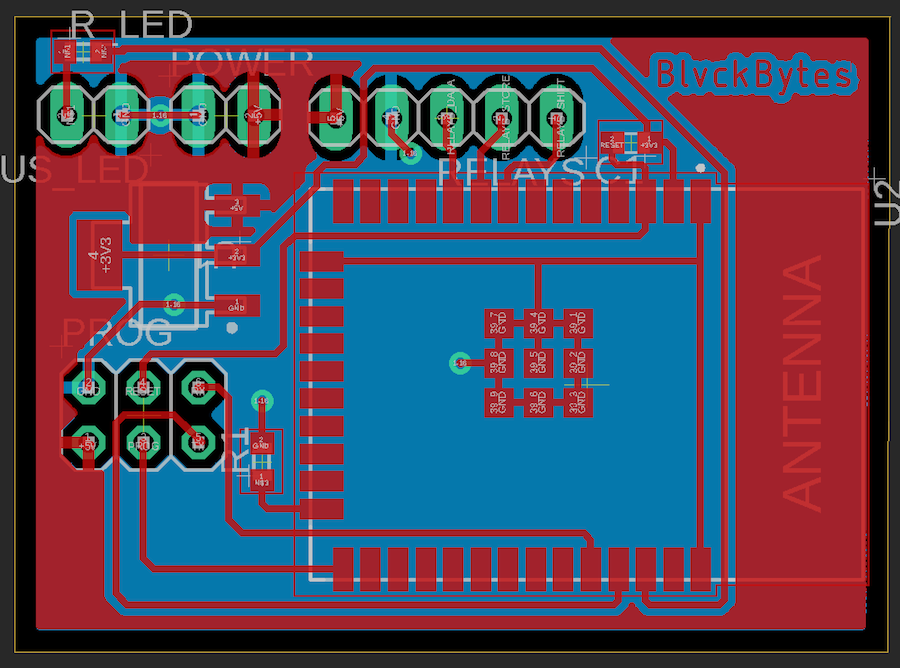
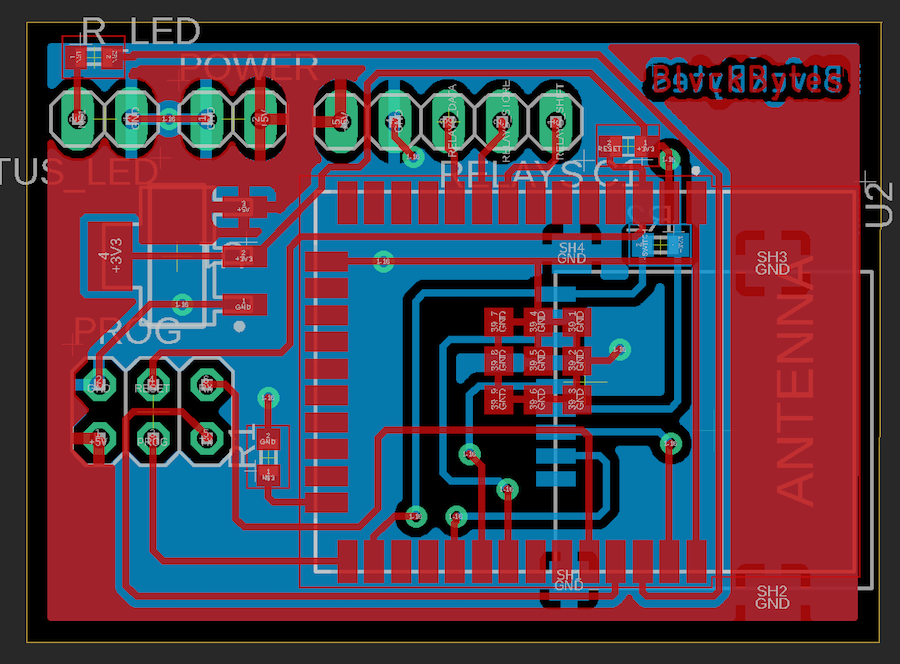
documentation: updated readme to latest hardware; updated requirements

diff --git a/README.md b/README.md
@@ -37,6 +37,8 @@ A web-based solenoid-valve controller used for watering the garden, plants and t
 * [x] Serve the UI from an SD-card
 * [x] Manage all files on the SD-card remotely
 * [ ] Store configurations on the SD-card
+* [ ] Upload compiled binaries and then flash from SD
+* [ ] Web SD-file browser
 
 ## Hardware
 
@@ -54,7 +56,9 @@ Converts USB signals to RX, TX, Reset and Programming-Bootmode signals and is us
 
 ![wifi_layout](readme_images/layout_wifi.png)
 
-![wifi_board](readme_images/board_wifi.jpg)
+![wifi_board_front](readme_images/board_wifi_front.jpg)
+
+![wifi_board_back](readme_images/board_wifi_back.jpg)
 
 This board plugs straight into the usb2serial module and represents the most barebones wifi circuit possible. Besides the 3.3V regulation as well as driving an external status-led and the relay-board breakouts, there's not much on there. The antenna is also broken out to an external antenna screw-connector to ensure proper wifi reception.
 
@@ -62,7 +66,9 @@ This board plugs straight into the usb2serial module and represents the most bar
 
 ![relays_layout](readme_images/layout_relays.png)
 
-![relays_board](readme_images/board_relays.jpg)
+![relays_board_front](readme_images/board_relays_front.jpg)
+
+![relays_board_back](readme_images/board_relays_back.jpg)
 
 This board requires 5VDC to power logic, 12VDC for the relays and 24VAC to control the valves using said relays. The 595 shift-register controls all eight relays through on-board transistors safely, since each relay has it's own reverse diode to catch collapsing field currents. Boards can be chained together to have as many valves as you'd like, since D_IN and D_OUT are exposed separately.
 
